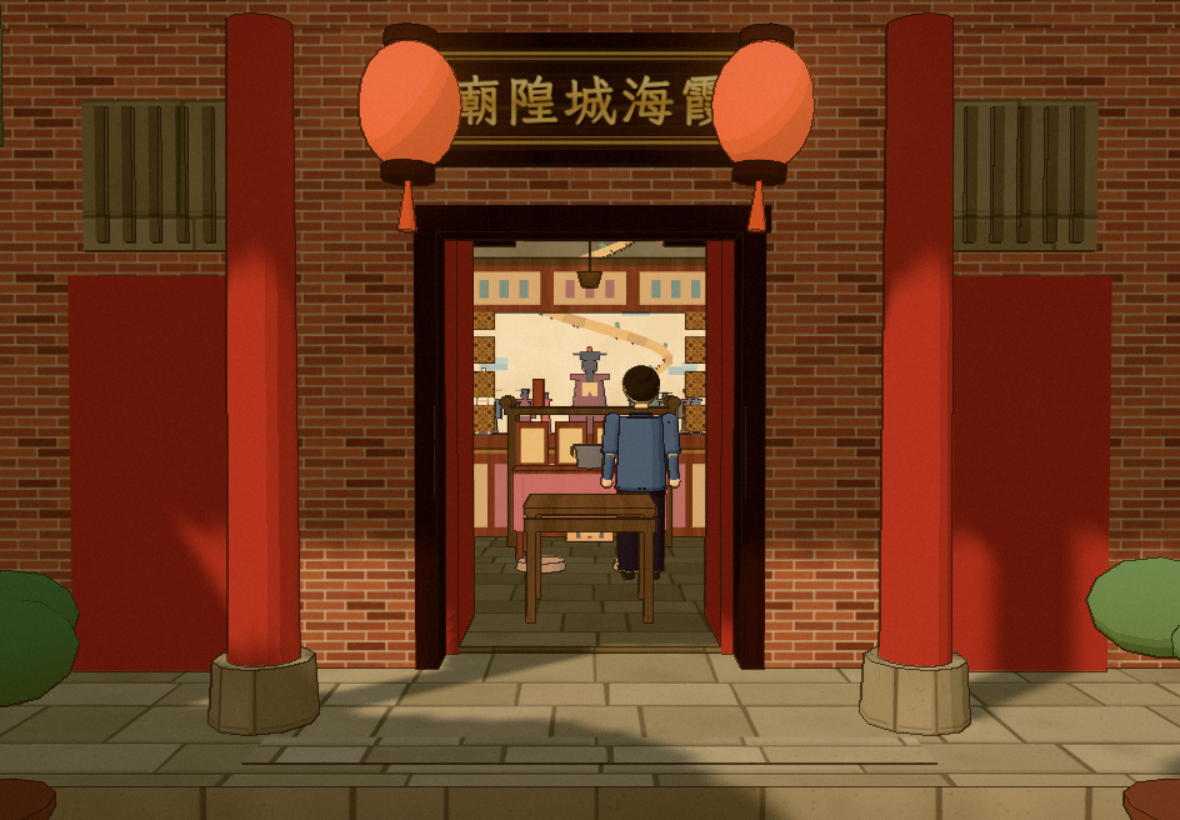
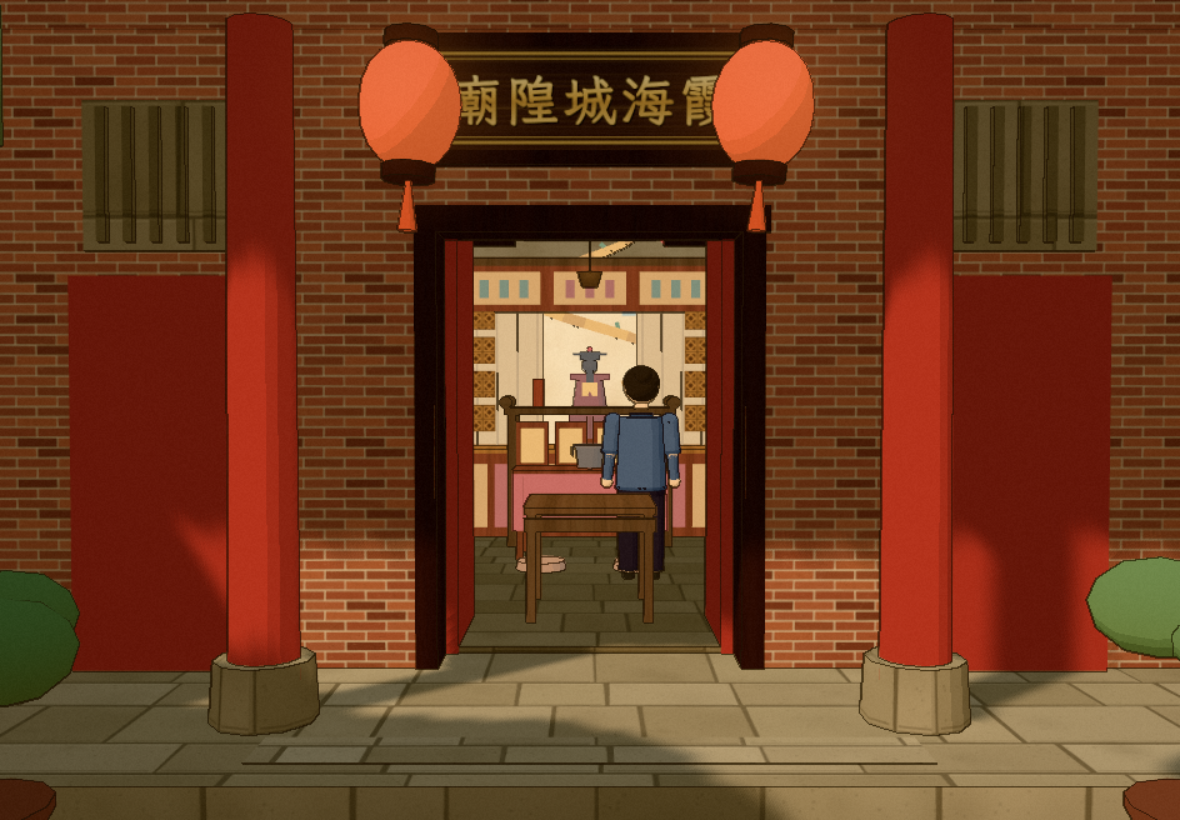
霞海城隍廟: 神像只畫主神與夫人、舍身成仁匾與花罩 1997 寫進文字、義勇公寫西廡
- 龕內配祀、謝范與文武判神偶、宮娥、虎爺不畫，改垂簾與空龕（使用者 2026-11-03 照建議）
- 義勇公分層文字：1934 沿革誌「西廡」、「舍身成仁」匾標「後來」；神龕文字加 1997 整修（待核）
- smoothBaseline 更新港口商街（批次 15 不變）；招牌少兩條錦帶

Changed region(s): [[0.3966, 0.3659, 0.4881, 0.5488], [0.5186, 0.3659, 0.6102, 0.5488], [0.4881, 0.6402, 0.5186, 0.6707]]

diff --git a/src/game/builders/xiaHaiTemple.js b/src/game/builders/xiaHaiTemple.js
@@ -82,34 +82,6 @@ function seatedFigure(b, x, y, z, h, { robe, trim = GILT, face = SOOT, crown = '
   })
 }
 
-/**
- * 立像（大型神偶與配祀小立像）：下襬外張的長袍、上身、頭、帽。
- * hat：'tall' 謝將軍的高帽、'flat' 范將軍的方帽、'judge' 判官的展角帽；sash：斜披的錦帶（大型謝范，靈安社）
- */
-function standingFigure(b, x, y, z, h, { robe, face = SOOT, hat = 'judge', sash = null, rotationY = 0, arms = true }) {
-  b.group([x, y, z], rotationY, () => {
-    b.cylinder('plain', h * 0.1, h * 0.15, h * 0.55, 10, [0, h * 0.275, 0], { tint: robe })
-    b.cylinder('plain', h * 0.1, h * 0.11, h * 0.25, 10, [0, h * 0.67, 0], { tint: shade(robe, 1.08) })
-    b.box('plain', [h * 0.3, h * 0.05, h * 0.16], [0, h * 0.79, 0], { tint: robe })
-    // 寬袖、腰帶、袍下緣與露出的靴尖
-    if (arms) for (const s of [-1, 1]) b.box('plain', [h * 0.09, h * 0.3, h * 0.11], [s * h * 0.14, h * 0.64, h * 0.03], { tint: shade(robe, 0.9) })
-    b.cylinder('plain', h * 0.115, h * 0.115, h * 0.035, 10, [0, h * 0.55, 0], { tint: GILT })
-    b.cylinder('plain', h * 0.152, h * 0.152, h * 0.03, 10, [0, h * 0.015, 0], { tint: shade(robe, 0.7) })
-    b.box('dark', [h * 0.16, h * 0.03, h * 0.08], [0, h * 0.015, h * 0.14], { tint: '#1e1c1c' })
-    b.add('plain', new SphereGeometry(h * 0.065, 10, 8), { position: [0, h * 0.87, 0], tint: face })
-    const top = h * 0.93
-    if (hat === 'tall') {
-      b.cylinder('plain', h * 0.045, h * 0.07, h * 0.2, 8, [0, top + h * 0.08, 0], { tint: '#ece8de' })
-    } else if (hat === 'flat') {
-      b.box('plain', [h * 0.16, h * 0.06, h * 0.16], [0, top + h * 0.02, 0], { tint: '#1e1c1c' })
-    } else {
-      b.box('plain', [h * 0.13, h * 0.07, h * 0.13], [0, top + h * 0.02, 0], { tint: '#1e1c1c' })
-      b.box('plain', [h * 0.36, h * 0.015, h * 0.03], [0, top + h * 0.03, -h * 0.03], { tint: '#1e1c1c' })
-    }
-    if (sash) b.box('plain', [h * 0.05, h * 0.42, 0.015], [0, h * 0.62, h * 0.11], { rotation: [0, 0, 0.5], tint: sash })
-  })
-}
-
 /* ═══════════ 器物 ═══════════ */
 
 const box2 = (x, z, w, d) => rect(x - w / 2, x + w / 2, z - d / 2, z + d / 2)
@@ -171,27 +143,15 @@ function buildMainShrine(b, item, detail) {
     b.box('wood', [w + 0.3, 0.1, d + 0.1], [0, top + 0.05, -0.05], { tint: DARK_WOOD })
     // 鎮殿城隍（三尺六、約 1.1 m）：硬身木雕、公爵帽、刺繡雪衣式神袍、長髯、黑面
     seatedFigure(b, 0, baseH, -0.12, 1.1, { robe: '#7a2b24', trim: '#d6ae52', crown: 'duke', beard: true, detail })
-    // 龕內配祀（前兩排，階梯式）：文武判官、牛馬將軍二尺三（0.7 m）；謝二尺二、范一尺三；劍印童、日夜遊神一尺六
-    b.box('wood', [w - 0.4, 0.18, 0.3], [0, baseH + 0.09, 0.25], { tint: shade(RED, 0.85) })
-    const second = [
-      [-1.15, 0.7, '#2f4d6a', 'judge'], [-0.75, 0.7, '#7a2b24', 'judge'], [0.75, 0.7, '#3a5a3a', 'flat'], [1.15, 0.7, '#5a3a2a', 'flat'],
-    ]
-    for (const [dx, h, robe, hat] of second) standingFigure(b, dx, baseH, -0.05, h, { robe, hat })
-    const first = [
-      [-1.2, 0.67, '#e8e2d4', 'tall'], [-0.85, 0.4, '#2a2a2a', 'flat'], [-0.5, 0.48, '#a8382c', 'flat'], [0.5, 0.48, '#3a6a8a', 'flat'], [0.85, 0.48, '#8a6a2a', 'judge'], [1.2, 0.48, '#4a4a6a', 'judge'],
-    ]
-    for (const [dx, h, robe, hat] of first) standingFigure(b, dx, baseH + 0.18, 0.25, h, { robe, hat, arms: h > 0.5 })
+    // 龕內的配祀沒有出處的年代，不畫（使用者 2026-11-03）：鎮殿城隍兩側垂下素色簾幕
+    for (const side of [-1, 1]) {
+      b.box('plain', [0.85, 1.6, 0.03], [side * 0.95, baseH + 0.85, 0.1], { tint: '#b8a27a' })
+      for (let k = 0; k < 4; k++) b.box('plain', [0.02, 1.6, 0.035], [side * (0.6 + k * 0.23), baseH + 0.85, 0.11], { tint: '#9e8862' })
+    }
   })
 }
 
-/** 大型文武判官神偶（約八尺、2.4 m）：立在主神龕左右的地上 */
-function buildBigPuppet(b, item) {
-  const civil = item.figure === 'civil'
-  b.box('wood', [0.6, 0.12, 0.6], [item.x, 0.06, item.z], { tint: shade(RED, 0.8) })
-  standingFigure(b, item.x, 0.12, item.z, 2.3, { robe: civil ? '#9a2e26' : '#2e5a48', face: civil ? SOOT : '#3c5a3a', hat: 'judge' })
-}
-
-/** 落地神龕（謝將軍八尺、范將軍約六尺；1870 年靈安社塑，身披「台北靈安社」錦帶、白鐵頭盔示意） */
+/** 落地神龕（廟方：供謝范將軍神偶；本站只畫龕與簾幕，神偶不畫） */
 function buildGroundShrine(b, item) {
   const xie = item.figure === 'xie'
   b.group([item.x, 0, item.z], item.rotationY ?? 0, () => {
@@ -199,8 +159,9 @@ function buildGroundShrine(b, item) {
     b.box('wood', [0.9, 0.12, 0.8], [0, 3.2, 0], { tint: RED })
     for (const s of [-1, 1]) b.box('wood', [0.08, 3.0, 0.08], [s * 0.42, 1.7, 0.36], { tint: RED })
     b.box('plaster', [0.86, 3.0, 0.04], [0, 1.7, -0.38], { tint: '#d9cfbd' })
-    const h = xie ? 2.45 : 1.85
-    standingFigure(b, 0, 0.2, 0, h, { robe: xie ? '#ece8de' : '#2a2a2c', face: xie ? '#e9e4da' : SOOT, hat: xie ? 'tall' : 'flat', sash: '#b3302a' })
+    // 謝范將軍的神偶不畫（只畫有出處的主神與夫人；使用者 2026-11-03）：落地龕垂簾
+    b.box('plain', [0.8, 2.6, 0.03], [0, 1.55, 0.34], { tint: xie ? '#b8a27a' : '#a8926a' })
+    for (let k = 0; k < 4; k++) b.box('plain', [0.02, 2.6, 0.035], [-0.3 + k * 0.2, 1.55, 0.35], { tint: '#8e7a56' })
   })
 }
 
@@ -225,11 +186,6 @@ function buildAltarTable(b, item, detail) {
     b.box('wood', [w - 0.2, 0.06, 0.04], [0, 0.22, d / 2 - 0.05], { tint: DARK_WOOD })
     // 令牌（案上）
     b.box('wood', [0.12, 0.3, 0.06], [-0.55, h + 0.15, 0], { tint: '#b23a2c' })
-    // 案下的虎爺（虎頭鍘造型，身長一尺六、約 0.5 m）
-    b.box('plain', [0.5, 0.2, 0.24], [0, 0.18, 0.05], { tint: '#c88a2c' })
-    b.box('plain', [0.2, 0.2, 0.22], [0, 0.26, 0.24], { tint: '#d29a34' })
-    for (let k = -1; k <= 1; k++) b.box('dark', [0.05, 0.16, 0.01], [k * 0.12, 0.19, 0.18], { tint: '#3a2a1e' })
-    if (detail) for (const s of [-1, 1]) detail.add('plain', new SphereGeometry(0.02, 6, 4), { position: [s * 0.05, 0.31, 0.355], tint: '#f2e2a0' })
   })
 }
 
@@ -330,11 +286,8 @@ function buildMadamShrine(b, item, detail) {
     // 城隍夫人：鳳冠、刺繡鳳袍、雲肩霞帔
     seatedFigure(b, 0, 0.45, -0.05, 0.98, { robe: '#a8382c', trim: '#2f5a8a', crown: 'phoenix', detail })
     b.box('plain', [0.42, 0.06, 0.26], [0, 0.45 + 0.98 * 0.6, -0.05], { tint: '#3a6a9a' })
-    // 兩側宮娥（等高、持搖扇）
-    for (const s of [-1, 1]) {
-      standingFigure(b, s * 0.55, 0.45, 0.0, 0.98, { robe: s < 0 ? '#c97a6a' : '#6a8aa8', hat: 'flat' })
-      b.cylinder('plain', 0.12, 0.12, 0.01, 12, [s * 0.55 + s * 0.12, 0.45 + 0.98 * 0.95, 0.08], { rotation: [Math.PI / 2, 0, 0], tint: '#e8dcb8' })
-    }
+    // 兩側宮娥不畫：素色簾幕（使用者 2026-11-03）
+    for (const s of [-1, 1]) b.box('plain', [0.42, 1.5, 0.03], [s * 0.58, 1.25, 0.05], { tint: '#b8a27a' })
   })
 }
 
@@ -348,7 +301,6 @@ function buildMadamTable(b, item) {
 /** 器物登記表：type → { build, footprint（障礙物）, height（鏡頭遮擋高度） } */
 export const XH_FURNITURE = {
   mainShrine: { build: buildMainShrine, footprint: (i) => box2(i.x, i.z, 3.3, 1.0), height: () => 3.1 },
-  bigPuppet: { build: buildBigPuppet, footprint: (i) => box2(i.x, i.z, 0.7, 0.7), height: () => 2.4 },
   groundShrine: { build: buildGroundShrine, footprint: (i) => turned(i, 0.95, 0.85), height: () => 3.3 },
   altarTable: { build: buildAltarTable, footprint: (i) => box2(i.x, i.z, 1.95, 0.7), height: () => 1.7 },
   offeringTable: { build: buildOfferingTable, footprint: (i) => box2(i.x, i.z, 1.6, 0.7), height: () => 1.3 },
@@ -501,12 +453,6 @@ export function buildXiaHaiShell(b, cfg, detail = null) {
   for (const c of COUPLET) {
     b.box('wood', [0.24, 2.1, 0.05], [c.x, 2.05, -6.9], { tint: '#2a1a15' })
     b.addSign({ text: c.text, style: 'lacquer', vertical: true, width: 0.18, height: 1.95, position: [c.x, 2.05, -6.87] })
-  }
-  // 大型謝范神偶的錦帶「台北靈安社」（1870 年靈安社塑；廟方）
-  for (const s of [-1, 1]) {
-    const item = XH_ITEMS.find((i) => i.type === 'groundShrine' && Math.sign(i.x) === s)
-    const h = item.figure === 'xie' ? 2.45 : 1.85
-    b.addSign({ text: '台北靈安社', style: 'red', vertical: true, width: 0.07, height: 0.42, position: [item.x - s * 0.17, 0.2 + h * 0.6, item.z], rotationY: -s * Math.PI / 2 })
   }
 
   // 鏡頭遮擋（殿的本地座標；y 是世界高度）：兩側牆、後牆、正面牆（中門以外）、屋頂、偏殿隔牆、器物

diff --git a/src/data/xiaHaiObjects.js b/src/data/xiaHaiObjects.js
@@ -102,6 +102,12 @@ export const XH_OBJECTS = {
           textEn: 'Whether today’s canopy and its patterns are the Qing originals: not found; this site follows the present photographs.',
           status: 'pending',
         },
+        {
+          text: '今天的花罩可能是 1997 年前後整修的樣子：當時報紙寫「座龕鑲上窗櫺、牆面改飾白石」（經維基百科腳註轉引，原報未讀）；1935 年的重修碑記說建廟七十六年來「丹青剝落」——清末的龕應該比今天的舊、比今天的素。',
+          textEn: 'Today’s canopy may be the look of the repair around 1997: a newspaper of the time says the shrine was fitted with lattice and the walls refaced in white stone (cited via a Wikipedia footnote; the paper itself not read). The 1935 restoration stele says that in seventy-six years the paintwork had peeled—so the Qing shrine was probably older and plainer than today’s.',
+          sourceIds: ['xiahai-stele-1935'],
+          status: 'pending',
+        },
       ],
       making: [{ text: '不是食物；神像是木雕，神袍是刺繡。', textEn: 'Not a foodstuff: the images are carved wood, the robes embroidered.', sourceIds: ['tpecitygod-art-04'] }],
       use: [
@@ -109,6 +115,12 @@ export const XH_OBJECTS = {
           text: '開基的神像 1859 年嵌入廟牆之中，看不到；鎮殿的是另雕的。',
           textEn: 'The founding image was sealed into the temple wall in 1859 and cannot be seen; the hall image is a separate carving.',
           sourceIds: ['tpecitygod-art-04'],
+        },
+        {
+          text: '本站只畫兩尊有出處的神像：主神城隍（1853 年從艋舺迎來的霞海城隍；龕中是建廟時雕的鎮殿像）與右室的城隍夫人（1893 年起）。龕內的配祀、謝范將軍與文武判官的大神偶、夫人兩旁的宮娥，清末是否已在沒有出處，不畫，以簾幕示意。',
+          textEn: 'This site draws only the two images with sources: the City God (brought from Bangka in 1853; the shrine holds the hall image carved at the founding) and the consort in the right-hand room (from 1893). The attendant images, the great figures of Generals Xie and Fan and the judges, and the consort’s maids have no source for the Qing period and are not drawn; curtains stand in their place.',
+          sourceIds: ['tpecitygod-art-04', 'tpecitygod-god-02'],
+          status: 'reconstruction',
         },
         {
           text: '本站讓人物只走到神案前，神龕一帶不能進去（示意）。',
@@ -214,10 +226,15 @@ export const XH_OBJECTS = {
           sourceIds: ['nchdb-xiahai-monument', 'tpecitygod-god-04'],
         },
         {
-          text: '牌位今日在正殿左側偏後的配殿；清末的位置查無，本站放在正殿左後角。',
-          textEn: 'Today the tablet is in the side chapel behind and left of the main hall; its Qing position is not found, and this site puts it in the rear left corner of the hall.',
-          sourceIds: ['tpecitygod-art-02'],
-          status: 'pending',
+          text: '1934 年的《臺北霞海城隍廟沿革誌》：三十八人陣亡後，「海內派下感念為公受厄，共議配祀霞海城隍廟西廡，曰義勇公」——義勇公供在西廡（側廊），不在正殿裡；今天在正殿左側偏後的配殿。本站把龕放正殿左後角是示意。',
+          textEn: 'The 1934 temple chronicle: after the thirty-eight died, “the Hainei branch, grieving that they suffered for the common cause, agreed to enshrine them in the west gallery of the Xiahai City God temple as the Righteous and Brave”—so they were kept in a side gallery, not in the main hall; today they are in the side chapel behind and left of the hall. Placing the shrine at the hall’s rear left is this site’s approximation.',
+          sourceIds: ['xiahai-chronicle-1934', 'tpecitygod-god-04'],
+          status: 'reconstruction',
+        },
+        {
+          text: '後來：今天龕上的匾「舍身成仁」是 1934 年海內會立的，清末還沒有，本站港口商街的殿內不畫。',
+          textEn: 'Later: the plaque above the shrine today, “Giving one’s life for righteousness”, was set up by the Hainei Society in 1934; it did not exist in the Qing and is not modelled in this site’s harbour-era hall.',
+          sourceIds: ['tpecitygod-art-06'],
         },
       ],
       where: [{ text: '霞海城隍廟港口商街正殿左後的小龕。', textEn: 'The small shrine at the rear left of Xiahai’s main hall in the harbour era.' }],

diff --git a/src/data/xiaHaiLayout.js b/src/data/xiaHaiLayout.js
@@ -48,19 +48,17 @@ export const XH_ITEMS = [
   { type: 'baxianTable', x: 0, z: -3.05 },
   { type: 'keeperDesk', x: -3.9, z: -2.75, rotationY: Math.PI / 2 },
   { type: 'priestDesk', x: 4.6, z: -2.75, rotationY: -Math.PI / 2 },
-  // 拜殿與正殿交接處兩側牆前的落地神龕：謝將軍八尺、范將軍約六尺（1870 年靈安社塑）
+  // 拜殿與正殿交接處兩側牆前的落地神龕（廟方：謝范將軍神偶；神偶不畫，以簾幕示意——只畫主神與夫人，使用者 2026-11-03）
   { type: 'groundShrine', x: -4.6, z: -3.85, figure: 'xie', rotationY: Math.PI / 2 },
   { type: 'groundShrine', x: 4.6, z: -3.85, figure: 'fan', rotationY: -Math.PI / 2 },
   // ── 正殿 ──
   { type: 'mainShrine', x: 0, z: -7.33 },
-  { type: 'bigPuppet', x: -2.25, z: -7.3, figure: 'civil' },
-  { type: 'bigPuppet', x: 2.25, z: -7.3, figure: 'military' },
   { type: 'altarTable', x: 0, z: -6.45 },
   { type: 'offeringTable', x: 0, z: -5.6 },
   { type: 'cushion', x: -0.45, z: -4.85, block: false },
   { type: 'cushion', x: 0.45, z: -4.85, block: false },
   { type: 'yiyongShrine', x: -4.35, z: -7.37 },
-  // ── 右側偏殿：城隍夫人與兩位宮娥（1893 年起） ──
+  // ── 右側偏殿：城隍夫人（1893 年起；宮娥不畫） ──
   { type: 'madamShrine', x: 4.12, z: -7.42 },
   { type: 'madamTable', x: 4.12, z: -6.65 },
 ]

diff --git a/tests/lightingMotion.test.js b/tests/lightingMotion.test.js
@@ -36,8 +36,8 @@ const PRE_MOTION = JSON.parse(readFileSync(new URL('./fixtures/preMotionWorld.js
 // 新芳春茶行（第 11 階段）：門聯兩塊與二樓的匾，摩登、庶民生活、老屋新生各多三塊
 // 江山樓（第 11 階段擴充）：依臺史博外觀照的「KANG SAN LAU」「ライトビール」「かうさんろう」與側面「高砂麥酒」多四塊；三樓陽臺下多四盞燈籠
 // 新芳春老屋新生的正廳後牆多一塊木匾「新芳春行」（使用者提供的照片）
-// 港口商街：霞海城隍廟殿內的六方匾、一對楹聯與謝范神偶的兩條錦帶（第 11 階段）
-const LATER_SIGNS = { 'qing-port': 6 + 2 + 2, banquet: 4, modern: 3, postwar: 3 + 3, revival: 5 + 14 - 3 + 3 + 1 }
+// 港口商街：霞海城隍廟殿內的六方匾與一對楹聯（第 11 階段）
+const LATER_SIGNS = { 'qing-port': 6 + 2, banquet: 4, modern: 3, postwar: 3 + 3, revival: 5 + 14 - 3 + 3 + 1 }
 const LATER_LANTERNS = { banquet: 4 }
 const source = (path) => readFileSync(new URL(`../src/${path}`, import.meta.url), 'utf8')
 

diff --git a/src/game/builders/xiaHaiInspect.js b/src/game/builders/xiaHaiInspect.js
@@ -79,11 +79,8 @@ function buildShrine({ detail }) {
   god.add('#1c1a1a', box(0.24, 0.015, 0.04), { p: [0, 0.945, -0.01] })
   god.add('#b3302a', new SphereGeometry(0.02, 8, 6), { p: [0, 0.98, 0.01] })
   if (detail) for (let k = -3; k <= 3; k++) god.add('#c9a148', box(0.012, 0.03, 0.012), { p: [k * 0.035, 0.6, 0.11] })
-  // 前排的配祀小像（階梯式）
-  for (const [x, h, c] of [[-0.55, 0.36, '#2f4d6a'], [-0.35, 0.36, '#7a2b24'], [0.35, 0.36, '#3a5a3a'], [0.55, 0.36, '#5a3a2a']]) {
-    god.add(c, cyl(0.04, 0.06, h * 0.7, 8), { p: [x, 0.35 + h * 0.35, 0.1] })
-    god.add('#2a221e', new SphereGeometry(0.03, 8, 6), { p: [x, 0.35 + h * 0.8, 0.1] })
-  }
+  // 配祀小像沒有出處的年代，不畫（使用者 2026-11-03）：兩側垂簾
+  for (const x of [-0.45, 0.45]) frame.add('#b8a27a', box(0.4, 0.75, 0.01), { p: [x, 0.75, 0.05] })
   return {
     radius: 0.95,
     centerY: 0.75,

diff --git a/README.md b/README.md
@@ -10,15 +10,15 @@
 霞海城隍廟（港口商街）可以走進殿內：從廟埕走上石階、穿過拜亭與中門，到拜殿與正殿的神案前，再進右側的偏殿。設計與查證在 `docs/research/interior-xia-hai-cheng-huang.md`（第 6 節的建議全部採用，第 8 節是補查）。**清末殿內沒有任何圖像**：格局依廟方「廟宇藝術」各頁的位置，花罩、背板依現況照片，整座殿內標「歷史情境重建」、尺度是示意。
 
 - **建築**（建築樣式仍是共用的 `temple`，`buildingByEra` 加 `interior: 'xiahai'`；外殼與碰撞在 `builders/xiaHaiTemple.js`，配置在 `data/xiaHaiLayout.js`）：中門打開、殿身補上側牆與後牆、地面在台基上 0.45 公尺，石階是看不見的斜面。殿內無柱、桁桷外露（十三架檁的示意）；拜殿用捲棚的弧椽（1971 年以前的樣子，只在精緻畫質）。港口商街的廟埕**不畫天公爐**（1980 年才設）。慈聖宮不受影響。
-- **拜殿**：中央八仙桌、左側廟祝櫃台（籤筒）、右側道士的桌（不畫人）、兩側牆前謝范將軍的落地神龕（1870 年靈安社塑，錦帶寫「台北靈安社」）。
-- **正殿**：主神龕（高台、紅金透雕花罩、白底蟠龍背板、鎮殿城隍三尺六與龕內配祀，尺寸依廟方）、龕左右約八尺的大型文武判官、翹頭神案（案下虎爺）、供桌與銅香爐、蒲團；神龕上方三方清代匾、正殿前大楣「天眼時開」、拜殿內側 1885／1890 的兩方；蘇斐然木聯（清末位置查無，放神龕兩側並寫明今在夫人龕）；左後角的義勇公祿位（素聯板，不編聯文）；中央一盞長明燈（油燈示意）。神龕一帶不能進去，人物只走到神案前。
-- **右側偏殿**：城隍夫人與兩位宮娥（1893 年起，依廟方轉引的 1925 年報載「右室」；龕用素木示意）。
+- **拜殿**：中央八仙桌、左側廟祝櫃台（籤筒）、右側道士的桌（不畫人）、兩側牆前的落地神龕（廟方：供謝范將軍神偶；神偶不畫，垂簾示意）。
+- **正殿**：主神龕（高台、紅金透雕花罩、白底蟠龍背板、鎮殿城隍三尺六，兩側垂簾）、翹頭神案、供桌與銅香爐、蒲團；神龕上方三方清代匾、正殿前大楣「天眼時開」、拜殿內側 1885／1890 的兩方；蘇斐然木聯（清末位置查無，放神龕兩側並寫明今在夫人龕）；左後角的義勇公祿位（素聯板，不編聯文）；中央一盞長明燈（油燈示意）。神龕一帶不能進去，人物只走到神案前。
+- **右側偏殿**：城隍夫人（1893 年起，宮娥不畫、垂簾示意；依廟方轉引的 1925 年報載「右室」；龕用素木示意）。
 - **不畫**：供品、月老（1971）、八司官、光明燈、天公爐、現代彩繪與門神；神像是簡化的人形，不做臉部細節。
 - **器物**（`data/xiaHaiObjects.js`，模型 `builders/xiaHaiInspect.js`）：共用的香爐 `incense-burner`（含慈聖宮的待核說明）、主神龕 `chenghuang-shrine`、清代匾額 `qing-plaques`、義勇公祿位 `yiyonggong-tablet`，五層中英文齊全。
 - **人物**（`data/xiaHaiTalk.js`，不具名）：拜殿的廟祝、正殿來拜的街坊婦人；對話標有出處／坊間傳說／虛構對白，城隍夫人的追問標 1893 年。
 - **出處**：新增廟方官網 8 頁、國家文化資產網古蹟頁、Commons 殿內照片分類、高振宏 2014，與補查的 1934 沿革誌、1935 碑記、《淡水廳志》、許雪姬 1992、鍾秀雋 2014、慈聖宮金爐照片。
-- **待使用者決定**（補查第 5 節）：神像是否全部畫出、1934 年「舍身成仁」匾要不要寫、花罩可能是 1997 年整修的樣子要不要寫、義勇公文字寫「西廡」而模型留左後角。
-- **預算**（港口商街）：流暢畫質的街景批次維持 15；殿內按需載入 5 批（精緻畫質細部另 1 批），頂點約 3.2 萬（上限 7 萬）；招牌多 10 塊（同一張圖集）。
+- **使用者決定（2026-11-03，照建議）**：神像只畫有出處的兩尊——主神城隍與城隍夫人（1893 年起），龕內配祀、謝范與文武判神偶、宮娥、虎爺都不畫，以簾幕或空龕示意；1934 年「舍身成仁」匾只寫進義勇公分層文字（「後來」），不做模型；「今天的花罩可能是 1997 年整修的樣子」寫進神龕分層文字、標待核；義勇公文字寫「西廡（側廊）」，模型維持左後角。
+- **預算**（港口商街）：流暢畫質的街景批次維持 15；殿內按需載入 5 批（精緻畫質細部另 1 批），頂點約 3.2 萬（上限 7 萬）；招牌多 8 塊（同一張圖集）。
 
 ## 新增店家：昭和浪漫洗濯屋（2000–現在，老洗衣店改建的霜淇淋專賣店）
 
@@ -1386,7 +1386,7 @@ node tests/e2e/era-switching.e2e.mjs http://127.0.0.1:4173/
 
 ## 測試狀態
 
-- 霞海城隍廟的殿內（第 11 階段）：新增 `tests/xiaHaiInterior.test.js` 26 項與 `tests/e2e/xiaHai.e2e.mjs`；改 `tests/xiaHai.test.js`（天公爐拿掉、殿內可以走）、`tests/lightingMotion.test.js`（港口商街招牌多 10 塊、廟埕少一縷香煙）、`tests/actionbar.test.js`、`tests/yongle.test.js`、`tests/teaInteriors.test.js`、`tests/miTaiMu.test.js`、`tests/inspect.test.js`（港口商街的殿內範圍與器物 14 件）；`smoothBaseline.json` 更新港口商街（批次數 15 不變）。`npm test` 1342 項全部通過。瀏覽器端桌面精緻與 iPad 流暢共 22 項全部通過（走上石階進殿內與偏殿、4 件器物、2 位人物交談、走回廟埕、連續進出 3 次、殿內切換年代、沒有頁面錯誤）；截圖在 `docs/xia-hai-cheng-huang/`。**沒有驗證**：iPad 實機；神像與花罩只依現況照片的描述，清末樣子查無。
+- 霞海城隍廟的殿內（第 11 階段）：新增 `tests/xiaHaiInterior.test.js` 26 項與 `tests/e2e/xiaHai.e2e.mjs`；改 `tests/xiaHai.test.js`（天公爐拿掉、殿內可以走）、`tests/lightingMotion.test.js`（港口商街招牌多 8 塊、廟埕少一縷香煙）、`tests/actionbar.test.js`、`tests/yongle.test.js`、`tests/teaInteriors.test.js`、`tests/miTaiMu.test.js`、`tests/inspect.test.js`（港口商街的殿內範圍與器物 14 件）；`smoothBaseline.json` 更新港口商街（批次數 15 不變）。`npm test` 1342 項全部通過。瀏覽器端桌面精緻與 iPad 流暢共 22 項全部通過（走上石階進殿內與偏殿、4 件器物、2 位人物交談、走回廟埕、連續進出 3 次、殿內切換年代、沒有頁面錯誤）；截圖在 `docs/xia-hai-cheng-huang/`。**沒有驗證**：iPad 實機；神像與花罩只依現況照片的描述，清末樣子查無。
 - 江山樓的室內（第 11 階段）：新增 `tests/jiangShanLouInterior.test.js` 24 項與 `tests/e2e/jiangShanLou.e2e.mjs`；`smoothBaseline.json` 更新酒樓繁華（批次數 20 不變）。瀏覽器端桌面精緻與 iPad 流暢共 28 項全部通過（走進門廳、上下樓、4 件器物、3 位人物交談、連續上下樓進出、一樓與二樓切換年代、沒有頁面錯誤）。截圖在 `docs/jiang-shan-lou/`。**沒有驗證**：iPad 實機；宴席照的年份、匾上的字、廣告旗的片假名讀不出來（只畫標誌與筆畫）。
 - 新芳春茶行三個年代的室內（第 11 階段）：新增 `tests/xinFangChun.test.js` 35 項與 `tests/e2e/xinFangChun.e2e.mjs`；`smoothBaseline.json` 更新酒樓繁華到老屋新生（批次數不變）。瀏覽器端桌面精緻與 iPad 流暢共 70 項全部通過（三個年代走過正廳、天井到加工廠、上下樓、14 件器物、4 位人物交談、連續上下樓進出、一樓與二樓切換年代、沒有頁面錯誤）。截圖在 `docs/xin-fang-chun/`。**沒有驗證**：iPad 實機；焙籠坑數量與機具在 1934 年是否已有仍待核。
 - 昭和浪漫洗濯屋（老屋新生）：新增 `tests/showaLaundry.test.js` 25 項與 `tests/e2e/showaLaundry.e2e.mjs`；`tests/lightingMotion.test.js` 老屋新生的招牌數多 11 面（新增 14、取代的街屋少 3）；`tests/weathering.test.js` 老屋新生的一般建築門檻改成 8 棟、鐵窗花至少 1 棟（`south-13` 與 `plaza-1-1` 被取代）；`tests/fixtures/smoothBaseline.json` 只更新老屋新生（批次數 37 不變）。`npm test` 1167 項全部通過、`npm run build` 成功。瀏覽器端 `showaLaundry.e2e.mjs`（Playwright Chromium headless、SwiftShader）：桌面精緻（1600×900）與 iPad 流暢（1180×820、觸控）各 12 項，共 24 項全部通過（走進後場再走出來、四件器物、三位人物交談、連續進出 3 次、在店裡切換年代、沒有頁面錯誤）。e2e 抓到並修正的問題：排隊的遊客站在霜淇淋模型旁，交談提示永遠蓋過模型的近看提示（遊客移到販賣機旁）；舊招牌、霜淇淋模型與熱點擠在一公尺內（模型移到立面最左端、熱點改名「老洗衣店」）；山牆的熱點太靠近長凳上的阿伯（移到山牆前角）。iPad 上和店裡「看老物件的客人」交談：**一般操作不會碰到提示跑出畫面**——用預設鏡頭俯角從店門口走向人物，提示一出現就停下，提示卡在畫面裡（y≈78）、點得到；先前失敗是測試直接瞬移到前窗內側 0.4 m 的位置，鏡頭被前牆擋住貼著人物、往上仰，頭頂的提示在畫面上方。所以測試改成店裡的人物用一般操作走近（店外的人物仍用瞬移站位），沒有改程式。**沒有驗證**：沒有在 iPad 實機操作與量幀率；貼著前窗、面向店內時提示仍可能在畫面上方（轉動鏡頭或退一步就看得到）。

diff --git a/docs/roadmap.md b/docs/roadmap.md
@@ -141,7 +141,7 @@
 - ☑ 第 6 項（2026-11-03）：江山樓（酒樓繁華）一樓門廳與二樓一間宴會廳，依人工看過的 Commons 宴席照擺設；廚房不開放，三、四樓不畫；藝旦不做人物。新器物菜單、金錢火雞、賀匾。設計與查證見 `docs/research/interior-jiang-shan-lou.md`。
 - ☑ 第 6 項擴充（2026-11-03）：江山樓外觀依臺史博外觀照的字樣（山、KANG SAN LAU、ライトビール、江山樓、かうさんろう、側面高砂麥酒）、燈籠與樓頂庭園；樓梯一路上到二樓、三樓、四樓樓梯間與樓頂（`builders/upperFloors.js`）。三樓與樓頂的新器物待研究補分層文字。
 - 之後的店家沿用同樣的寫法：器物清單（`FURNITURE` 的 build／footprint／height）、靠牆的障礙物補到牆裡、器物的 `layers`。
-- ☑ 第 11 項之一（2026-11-03）：霞海城隍廟（港口商街）的殿內：拜殿、正殿、右側偏殿；主神龕與神像、清代匾額、義勇公祿位、香爐依廟方「廟宇藝術」與現況照片，清末殿內沒有圖像，整座標歷史情境重建；天公爐、月老、八司官、光明燈、供品不畫。新器物主神龕、清代匾額、義勇公祿位與共用的香爐。設計與查證見 `docs/research/interior-xia-hai-cheng-huang.md`。待使用者決定：神像畫的範圍、「舍身成仁」匾、花罩 1997 整修、義勇公「西廡」。
+- ☑ 第 11 項之一（2026-11-03）：霞海城隍廟（港口商街）的殿內：拜殿、正殿、右側偏殿；主神龕與神像、清代匾額、義勇公祿位、香爐依廟方「廟宇藝術」與現況照片，清末殿內沒有圖像，整座標歷史情境重建；天公爐、月老、八司官、光明燈、供品不畫。新器物主神龕、清代匾額、義勇公祿位與共用的香爐。設計與查證見 `docs/research/interior-xia-hai-cheng-huang.md`。使用者決定（照建議）已實作：神像只畫主神與夫人、「舍身成仁」匾與花罩 1997 只寫文字、義勇公文字寫「西廡」。
 - 廟的室內：神像、供品與祭祀細節沒有出處就不畫、不寫（第 5 階段霞海城隍廟的原則）。
 - 仍在營業的店家依公開照片建模，不寫店家沒有公開的經營細節。
 

diff --git a/docs/research/interior-xia-hai-cheng-huang.md b/docs/research/interior-xia-hai-cheng-huang.md
@@ -241,3 +241,5 @@ templeInterior（本地座標：原點在殿的正面台階中央，+z 朝廟埕
 已接上：香爐的慈聖宮 form／evidence、神龕的 evidence（《淡水廳志》未載）與偏殿夫人的 use、義勇公龕的楹聯說明（不含 1934 年匾）、廟祝一句「彩繪都剝了」（1935 碑記）。出處新增 1934 沿革誌、1935 碑記、《淡水廳志》、許雪姬 1992、鍾秀雋 2014、慈聖宮金爐照片；三筆報紙沒有網址，沒有收。
 
 待使用者決定，還沒有接：神像要全部畫還是只在有出處的年代畫；1934 年「舍身成仁」匾要不要寫；「花罩可能是 1997 年整修的樣子」要不要寫；義勇公文字寫「西廡（側廊）」、模型維持左後角。
+
+使用者決定（2026-11-03，照建議）：神像只畫主神城隍與城隍夫人（1893 年起），其他陪祀以簾幕或空龕；「舍身成仁」匾（1934）只寫進義勇公的分層文字；花罩 1997 整修寫進神龕文字、標待核；義勇公文字寫「西廡（側廊）」、模型維持左後角。已實作。
